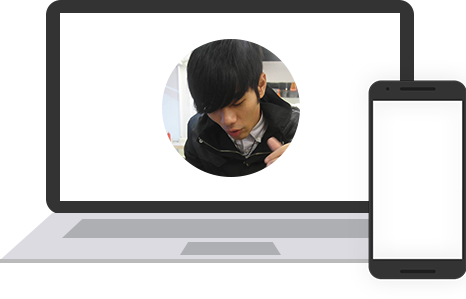
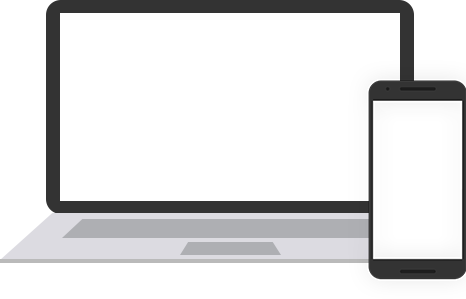
修改圖檔像素

Changed region(s): [[0.3305, 0.1204, 0.6609, 0.602]]

diff --git a/index.html b/index.html
@@ -434,7 +434,7 @@
 				</span>
 				<div class="article-content">
 					<div class="pic">
-						<img class="pic-img works-img" src="pic/etc_logo.jpg" alt="Roader">
+						<!-- <img class="pic-img works-img" src="pic/etc_logo.jpg" alt="Roader"> -->
 						<h6 class="pic-name works-name">線上辦委託系統</h6>
 						<p class="works-intro">Online Calibration & Equipment Inspection: Streamlined platform for scheduling, tracking, and maintaining commission progress. Access real-time updates, manage customer data, and ensure accurate results. Simplify your calibration and inspection process with ease and efficiency./p>
 						<!-- <p class="works-intro">現有的系統如路況廣播會播報全台路況（包含一般平面道路），缺乏分類與程度區分的資料充斥用路人耳朵，不但資料混雜，而且容易造成用路人的混淆。為了改善用路人的行車安全與便利性，Roader團隊推出了以 SoLoMo（社群 Social、地點 Local、行動 Mobile）為概念發展的即時路況社群與語音導引 APP。</p> -->
